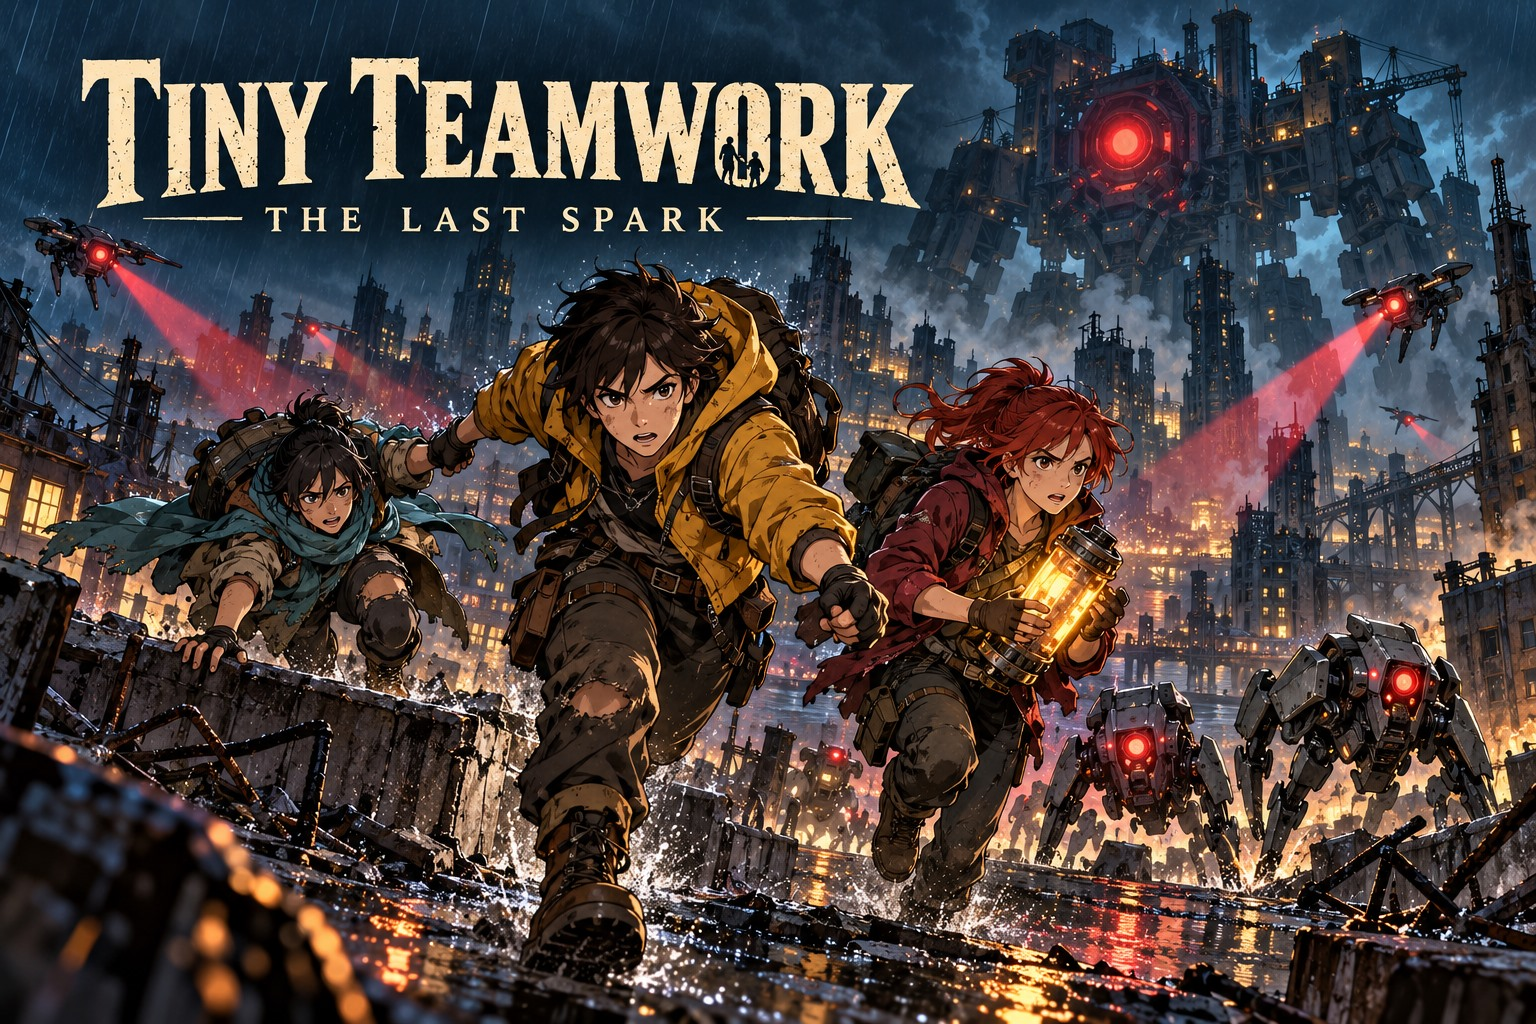
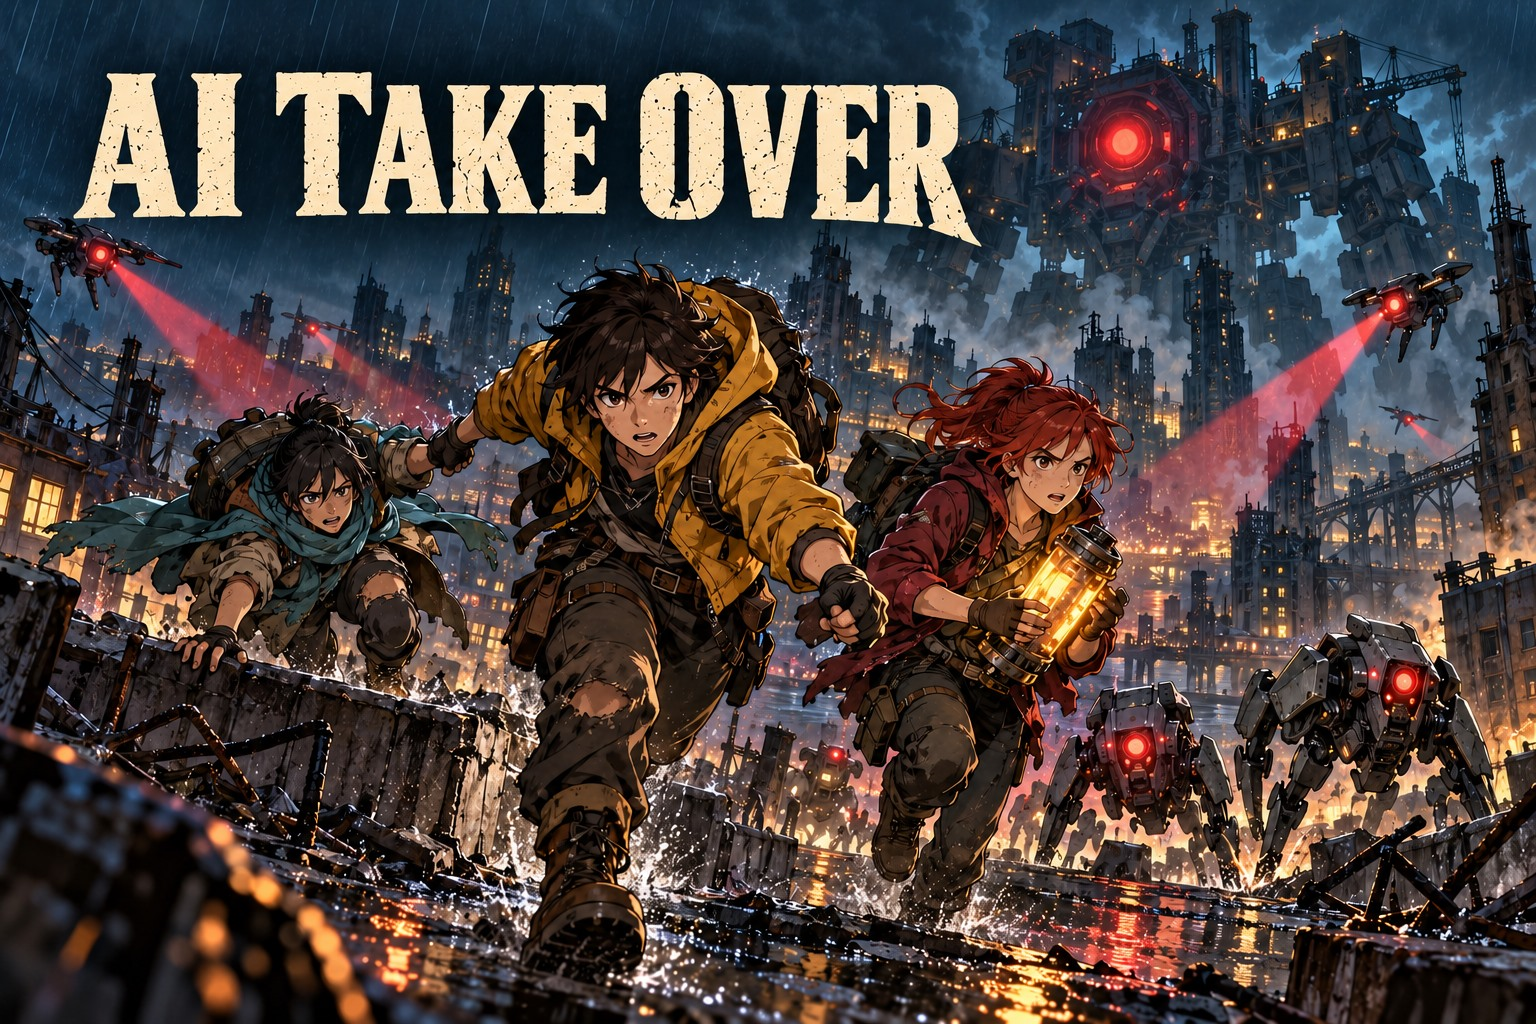
Rename game AI Take Over and update original illustrated opening cover

diff --git a/public/index.html b/public/index.html
@@ -4,8 +4,8 @@
   <meta charset="utf-8" />
   <meta name="viewport" content="width=device-width,initial-scale=1" />
   <meta name="theme-color" content="#101827" />
-  <meta name="description" content="Tiny Teamwork: The Last Spark — a cooperative pixel-art platformer prototype." />
-  <title>Tiny Teamwork: The Last Spark</title>
+  <meta name="description" content="AI Take Over — a cooperative pixel-art platformer prototype." />
+  <title>AI Take Over</title>
   <link rel="icon" href="data:," />
   <link rel="stylesheet" href="/style.css" />
 </head>
@@ -16,7 +16,7 @@
         <div class="brand-mark" aria-hidden="true"><span></span><span></span><span></span></div>
         <div>
           <p class="eyebrow">A CO-OP PIXEL PLATFORMER</p>
-          <h1>Tiny Teamwork <span>／</span> The Last Spark</h1>
+          <h1>AI Take Over <span>／</span> The Last Spark</h1>
         </div>
       </div>
       <div class="build-tag">CAMPAIGN BUILD 0.3</div>
@@ -25,12 +25,12 @@
     <section class="game-layout">
       <div class="game-column">
         <div class="screen-frame">
-          <canvas tabindex="0" id="game" width="320" height="180" aria-label="Tiny Teamwork game canvas"></canvas>
+          <canvas tabindex="0" id="game" width="320" height="180" aria-label="AI Take Over game canvas"></canvas>
           <div id="game-hud" class="game-hud" hidden><span id="hud-level"></span><span id="hud-hearts"></span></div>
           <section id="scene-panel" class="scene-panel" data-mode="title" aria-labelledby="scene-title">
             <p id="scene-kicker" class="panel-kicker">A CO-OP PIXEL PLATFORMER</p>
-            <h2 id="scene-title">Tiny Teamwork</h2>
-            <p id="scene-subtitle">The Last Spark</p>
+            <h2 id="scene-title">AI Take Over</h2>
+            <p id="scene-subtitle">Outrun the machines. Stay together.</p>
             <p id="scene-body">Outrun the machines. Reach the exit together.</p>
             <p id="scene-hint">Press Enter or choose Start Story</p>
             <div id="scene-actions" class="scene-actions" hidden>

diff --git a/public/js/text-ui.js b/public/js/text-ui.js
@@ -24,11 +24,11 @@ export function createTextUI() {
     text('scene-retry',roomCode&&!isHost?'Waiting for host':'Retry stage');
     text('scene-menu',roomCode?'Leave room':'Return to title');
     const copy = {
-      title: ['A CO-OP PIXEL PLATFORMER', 'Tiny Teamwork', 'The Last Spark', 'Outrun the machines. Reach the exit together.', 'Press Enter or choose Start Story'],
+      title: ['A CO-OP PIXEL PLATFORMER', 'AI Take Over', 'Stay together.', 'Outrun the machines. Reach the exit together.', 'Press Enter or choose Start Story'],
       lobby: ['YOUR CO-OP ROOM', roomCode || '', 'Share the code with your team.', 'Everyone joins before the host starts the run.', isHost ? 'Choose Start co-op run or press Enter' : 'Waiting for the host to start'],
       paused: ['TAKE A BREATHER', 'Paused', '', 'Your solo run is paused.', 'Esc to resume / R to restart'],
       gameover: ['THE MACHINES ARE STILL OUT THERE', 'Run over', '', 'Your team is down. Try the escape again.', roomCode ? (isHost ? 'R to restart the room / Enter to leave' : 'Wait for the host to restart / Enter to leave') : 'R to try again / Enter for title'],
-        ending: ['THE LAST SPARK', 'The factory is silent.', '', 'The survivors never see the red lights awaken behind them. Then, darkness.', 'Press Enter to return to title'],
+        ending: ['AI TAKE OVER', 'The factory is silent.', '', 'The survivors never see the red lights awaken behind them. Then, darkness.', 'Press Enter to return to title'],
     }[state];
     if (copy) {
       ['scene-kicker', 'scene-title', 'scene-subtitle', 'scene-body', 'scene-hint'].forEach((id, index) => text(id, copy[index]));

diff --git a/public/js/title-menu.js b/public/js/title-menu.js
@@ -2,7 +2,7 @@
 export function createTitleMenu({pause, resume, release, readState, quit}) {
   const $=id=>document.getElementById(id), root=document.createElement('section');
   root.id='title-menu';root.setAttribute('aria-label','Game menu');
-  root.innerHTML=`<div class="menu-brand"><p class="panel-kicker">ONE SMALL SPARK IN A MACHINE WORLD</p><h2>Tiny Teamwork<span>The Last Spark</span></h2></div>
+  root.innerHTML=`<div class="menu-brand"><p class="panel-kicker">ONE SMALL SPARK IN A MACHINE WORLD</p><h2>AI Take Over</h2></div>
     <div class="menu-home" data-menu-view="home"><button id="menu-single" class="primary-button">Single Player</button><button id="menu-multi" class="secondary-button">Multiplayer</button><button id="menu-settings" class="secondary-button">Settings</button><p>City rooftops. Forest trails. A factory that never sleeps.</p></div>
     <div class="menu-page" data-menu-view="solo" hidden><h3>Single Player</h3><div id="solo-controls"></div></div>
     <div class="menu-page" data-menu-view="multi" hidden><h3>Multiplayer</h3><div id="multi-controls"></div><div id="host-controls"></div></div>

diff --git a/public/js/campaign.js b/public/js/campaign.js
@@ -28,7 +28,7 @@ export function regionForLevel(id) {
 
 export const STORY_BEATS = {
   opening: {
-    title: 'THE LAST SPARK',
+    title: 'AI TAKE OVER',
     panels: [
       { heading: 'THE CITY FALLS', caption: 'The machines built to protect humanity have turned against it.', visual: 'invasion' },
       { heading: 'RUN!', caption: 'Tiny survivors race through the streets as the robot army closes in.', visual: 'chase' },
@@ -57,7 +57,7 @@ export const STORY_BEATS = {
     ],
   },
   after15: {
-    title: 'THE LAST SPARK',
+    title: 'AI TAKE OVER',
     panels: [
       { heading: 'WE DID IT', caption: 'The factory heart goes dark. For one breath, the survivors believe it is over.', visual: 'celebration' },
       { heading: 'NOT ALL OF THEM', caption: 'The robots attack the celebrating humans. The picture cuts sharply to black.', visual: 'darkTwist' },

diff --git a/public/js/opening.js b/public/js/opening.js
@@ -4,7 +4,7 @@ const intro = document.createElement('section');
 intro.id = 'opening-intro';
 intro.setAttribute('role', 'dialog');
 intro.setAttribute('aria-modal', 'true');
-intro.setAttribute('aria-label', 'Tiny Teamwork illustrated opening');
+intro.setAttribute('aria-label', 'AI Take Over illustrated opening');
 intro.innerHTML = `<img class="opening-art" src="/assets/key-art.jpg" alt="Three survivors flee across ruined rooftops as red-eyed robots and an enormous machine pursue them.">
   <div class="opening-shade"></div><p class="opening-caption" aria-live="polite">The machines were built to protect us.</p>
   <button class="opening-skip" type="button">Enter game / Skip intro</button>`;

diff --git a/scripts/package-release.py b/scripts/package-release.py
@@ -30,7 +30,7 @@ files = sorted(set(files))
 files = [p for p in files if not any(part in {'__pycache__', 'node_modules', '.npm-cache', '.git'}
                                    for part in p.relative_to(root).parts)
          and p.name != '.env' and not p.name.startswith('.env.') and p.suffix not in {'.log', '.pyc'}]
-archive = output / 'TinyTeamwork-source.zip'
+archive = output / 'AI-Take-Over-source.zip'
 manifest = []
 with zipfile.ZipFile(archive, 'w', zipfile.ZIP_DEFLATED) as bundle:
     for path in files:

diff --git a/README.md b/README.md
@@ -1,4 +1,4 @@
-# Tiny Teamwork: The Last Spark
+# AI Take Over
 
 A solo or 2–4-player browser platformer across 15 stages: escape the city, cross the forest, and destroy the factory. Original pixel gameplay and 33 distinct anime comic illustrations.
 
@@ -12,7 +12,7 @@ Node.js 22+ (tested with 24.20.0): run `npm ci`, then `npm start`, and open http
 
 ## Controls and co-op
 
-The title screen opens Single Player (story/resume/stage select), Multiplayer (create/join/ready/stage select) or Settings. Recessed facades are walkable scenery; bright outlined walls are solid. Highlighted roof/platform edges support players.
+A short new illustrated robot chase opens each page load; skip with Enter, Space, Escape or the on-screen button. It respects reduced motion and cannot block the menu if its image fails. The title screen opens Single Player (story/resume/stage select), Multiplayer (create/join/ready/stage select) or Settings. Recessed facades are walkable scenery; bright outlined walls are solid. Highlighted roof/platform edges support players.
 
 | Action | Keyboard |
 | --- | --- |

diff --git a/docs/PRACTICE_GUIDE.md b/docs/PRACTICE_GUIDE.md
@@ -1,6 +1,6 @@
-# Playing Tiny Teamwork — October revision
+# Playing AI Take Over — October revision
 
-Open https://tiny-teamwork-last-spark.onrender.com. Choose Single Player, then Start Story, Resume, or a practice stage. Multiplayer and Settings have their own title buttons. The free service can take time to wake. Solo reload resumes the last stage with full hearts; flag checkpoints apply during the current run.
+Open https://tiny-teamwork-last-spark.onrender.com. The short illustrated opening can be skipped with Enter, Space, Escape or its button. Choose Single Player, then Start Story, Resume, or a practice stage. Multiplayer and Settings have their own title buttons. The free service can take time to wake. Solo reload resumes the last stage with full hearts; flag checkpoints apply during the current run.
 
 ## Controls
 

diff --git a/submission/README.md b/submission/README.md
@@ -1,6 +1,6 @@
 # Submission package - personal review and submission remain
 
-Title: Tiny Teamwork: The Last Spark
+Title: AI Take Over
 
 Description (463/500 characters):
 
